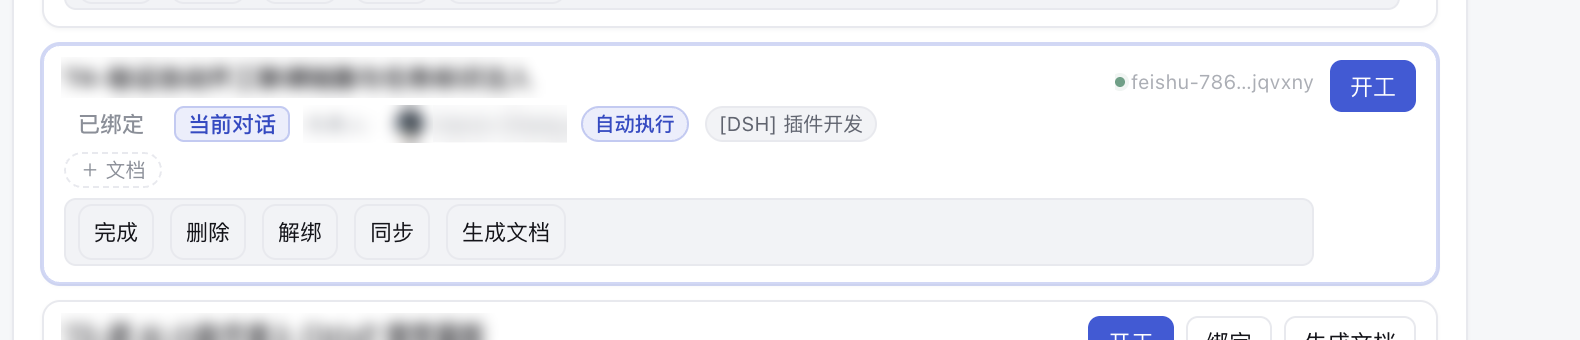
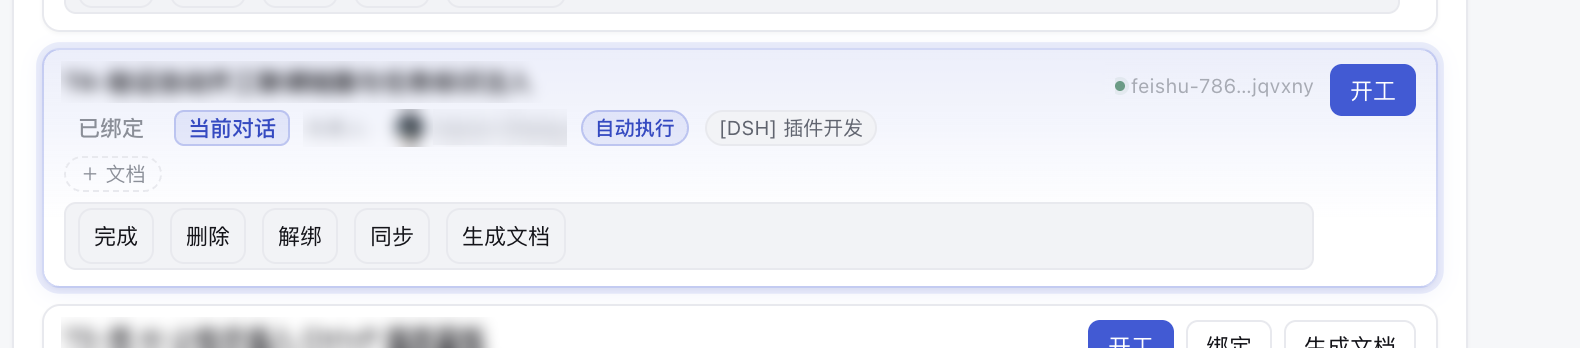
dsh-feishu 0.5.4：当前对话那张卡的底色也跟着换
0.5.3 只换了描边和徽标，扫一眼卡片堆还是容易漏。这次把底色也提出来：

```css
.task.task-current {
  border-color: var(--p-accent-line);
  background:
    linear-gradient(180deg, var(--p-accent-weak), transparent 72%),
    var(--p-card);
}
```

强调色自上而下淡出，压在白/深色卡片底上——不用一格实色块，正文和按钮的对比度不变，
浅色主题下是淡蓝底 + 蓝描边，深色主题下是淡紫底（`--p-accent-weak` 两套主题各自定义）。
呼吸动画、徽标、`aria-current` 都保持 0.5.3 的行为；`prefers-reduced-motion` 下只留静态描边。

## 截图

![当前对话的卡片：底色 + 描边 + 徽标](https://raw.githubusercontent.com/kp-z/dsh-dev-git-graph/feat/dsh-feishu/packages/dsh-feishu/docs/shots/05-current-task-highlight.png)

## 验证

- 注入 `dsh-feishu:context` 后 `getComputedStyle` 确认：`background-image` 为
  `linear-gradient(rgba(59,91,219,0.1), rgba(0,0,0,0) 72%)`，`border-color` 为强调色描边，`animation-name` 为 `task-current-pulse`
- 截图核对：底色与上下白卡对比明显，正文/徽标可读性未下降

diff --git a/packages/dsh-feishu/panel.html b/packages/dsh-feishu/panel.html
@@ -1047,6 +1047,10 @@
   /* ---------- 当前对话绑定的任务卡 ---------- */
   .task.task-current {
     border-color: var(--p-accent-line);
+    /* 底色也换掉：强调色自上而下淡出，压在白/深色卡片底上，不抢正文对比度 */
+    background:
+      linear-gradient(180deg, var(--p-accent-weak), rgba(0, 0, 0, 0) 72%),
+      var(--p-card);
     animation: task-current-pulse 2.4s ease-in-out infinite;
   }
 

diff --git a/packages/dsh-feishu/README.md b/packages/dsh-feishu/README.md
@@ -83,6 +83,7 @@
 面板会拿到宿主推来的「当前会话 id」（`postMessage: dsh-feishu:context`），把它绑定的那张任务卡单独标出来：
 
 - 描边换成主题强调色，带一个 2.4s 的呼吸动画（`task-current-pulse`）
+- **底色也换**：强调色自上而下淡出（`linear-gradient(var(--p-accent-weak), transparent 72%)`）压在卡片底色上，正文对比度不受影响
 - 标题行右侧多一个「当前对话」徽标
 - `prefers-reduced-motion` 下保留描边、关掉动画
 
